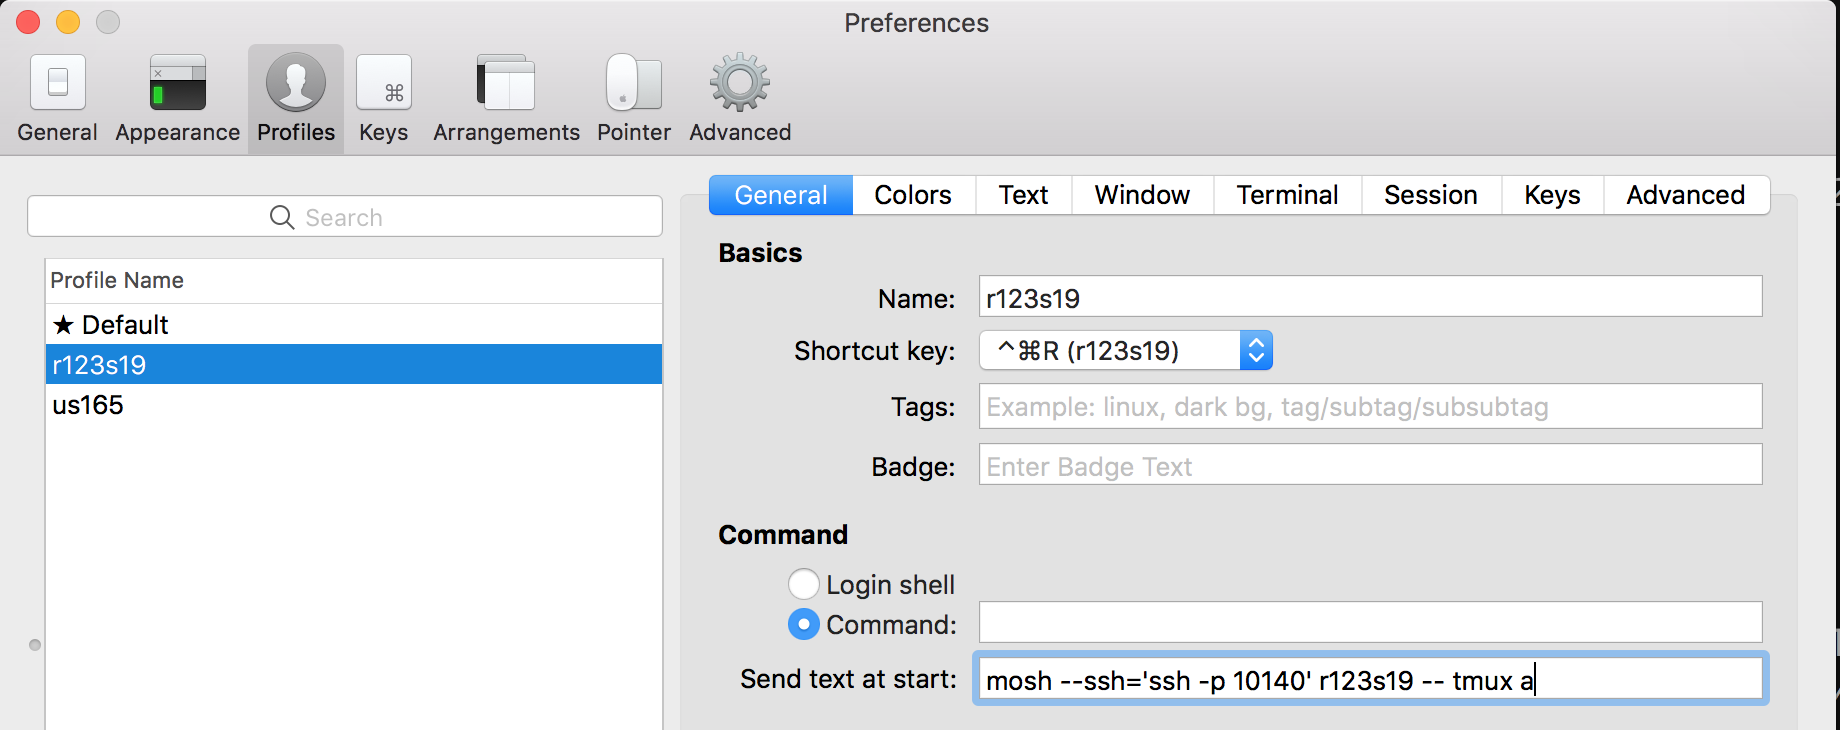
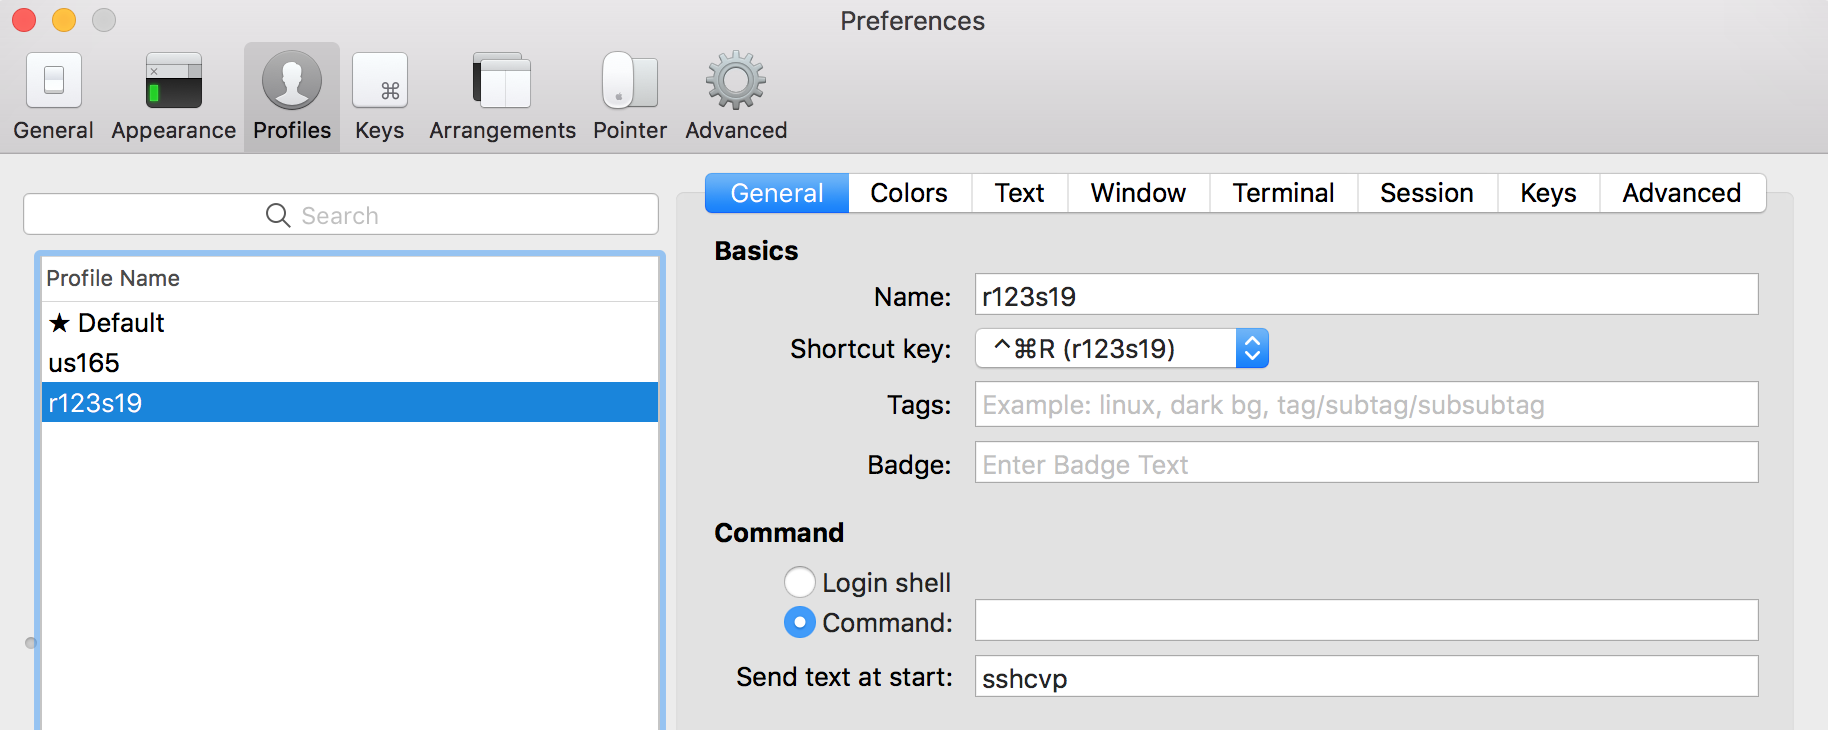
...

diff --git a/_posts/2017-10-09-Remote-Shell-Session-Setup.md b/_posts/2017-10-09-Remote-Shell-Session-Setup.md
@@ -47,6 +47,6 @@ Go to `Preference->Profiles` and click the plus sign at the bottom to create a n
 
 ![]({{site.url}}/assets/Remote-Shell-Session-Setup-1.png)
 
-Just replace `r123s19` with your host. If you don't need to specify port, just omit the `--ssh` part.
+where `sshcvp` is the alias of `mosh --ssh='ssh -p 10140' r123s19 -- sh -c "tmux ls | grep -vq attached && tmux a || tmux new"`. Why the heck is that so long? Becasue `"tmux ls | grep -vq attached && tmux a || tmux new"` is just the tmux way of saying `screen -R`, which attaches to an unattached session if one exists or create a new session if all sessions are attached or there is no session at all. I don't like screen becasue it is not aesthetically appealing so I choose tmux.
 
 Then you can just open a bunch of different profiles, each per tab, which are connected to different hosts. You can open more tabs than you usually need, just to be safe. Then click `Window->Save Window Arrangement`, which will save your arrangement for all of your tabs, which can be restored easily. To test that, press Cmd-q to close iTerm2. Then open iTerm2 again, go to `Window->Restore Window Arrangement` and select your saved arrangement and resotre it. You can see that all your tabs including your connections to those various hosts come back.
